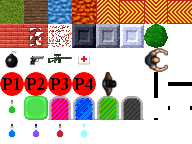
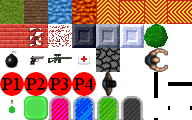
Added Ground/Stone

diff --git a/core/src/wge3/game/engine/utilities/MapLoader.java b/core/src/wge3/game/engine/utilities/MapLoader.java
@@ -8,32 +8,33 @@ import java.io.FileNotFoundException;
 import java.io.IOException;
 import java.util.Scanner;
 import wge3.game.engine.constants.Color;
-import wge3.game.entity.creatures.Player;
-import wge3.game.entity.creatures.npcs.Zombie;
+import wge3.game.engine.constants.Direction;
 import wge3.game.entity.Area;
 import wge3.game.entity.Tile;
-import wge3.game.engine.constants.Direction;
+import wge3.game.entity.creatures.Player;
 import wge3.game.entity.creatures.npcs.Gunman;
-import wge3.game.entity.tilelayers.grounds.Grass;
-import wge3.game.entity.tilelayers.grounds.Lava;
-import wge3.game.entity.tilelayers.grounds.OneWayFloor;
-import wge3.game.entity.tilelayers.grounds.Water;
-import wge3.game.entity.tilelayers.grounds.WoodenFloor;
-import wge3.game.entity.tilelayers.mapobjects.items.Bomb;
-import wge3.game.entity.tilelayers.mapobjects.items.GreenPotion;
-import wge3.game.entity.tilelayers.mapobjects.items.guns.Handgun;
-import wge3.game.entity.tilelayers.mapobjects.items.HealthPack;
-import wge3.game.entity.tilelayers.mapobjects.walls.BrickWall;
-import wge3.game.entity.tilelayers.mapobjects.GreenSlime;
-import wge3.game.entity.tilelayers.mapobjects.walls.StoneWall;
-import wge3.game.entity.tilelayers.mapobjects.Tree;
+import wge3.game.entity.creatures.npcs.Zombie;
 import wge3.game.entity.tilelayers.Ground;
 import wge3.game.entity.tilelayers.MapObject;
 import wge3.game.entity.tilelayers.grounds.Abyss;
+import wge3.game.entity.tilelayers.grounds.Grass;
+import wge3.game.entity.tilelayers.grounds.Lava;
+import wge3.game.entity.tilelayers.grounds.OneWayFloor;
+import wge3.game.entity.tilelayers.grounds.Stone;
+import wge3.game.entity.tilelayers.grounds.Water;
+import wge3.game.entity.tilelayers.grounds.WoodenFloor;
 import wge3.game.entity.tilelayers.mapobjects.Door;
-import wge3.game.entity.tilelayers.mapobjects.items.InvisibilityPotion;
+import wge3.game.entity.tilelayers.mapobjects.GreenSlime;
 import wge3.game.entity.tilelayers.mapobjects.Teleport;
+import wge3.game.entity.tilelayers.mapobjects.Tree;
+import wge3.game.entity.tilelayers.mapobjects.items.Bomb;
+import wge3.game.entity.tilelayers.mapobjects.items.GreenPotion;
+import wge3.game.entity.tilelayers.mapobjects.items.HealthPack;
+import wge3.game.entity.tilelayers.mapobjects.items.InvisibilityPotion;
 import wge3.game.entity.tilelayers.mapobjects.items.SpeedPotion;
+import wge3.game.entity.tilelayers.mapobjects.items.guns.Handgun;
+import wge3.game.entity.tilelayers.mapobjects.walls.BrickWall;
+import wge3.game.entity.tilelayers.mapobjects.walls.StoneWall;
 
 public final class MapLoader {
     
@@ -60,6 +61,8 @@ public final class MapLoader {
                     case 6: ground = new OneWayFloor(Direction.RIGHT); break;
                     case 7: ground = new OneWayFloor(Direction.DOWN); break;
                     case 8: ground = new OneWayFloor(Direction.LEFT); break;
+                        
+                    case 21: ground = new Stone(); break;
                                     
                     default:ground = new Abyss(); break;
                 }

diff --git a/core/src/wge3/game/entity/tilelayers/grounds/Stone.java b/core/src/wge3/game/entity/tilelayers/grounds/Stone.java
@@ -1,0 +1,13 @@
+package wge3.game.entity.tilelayers.grounds;
+
+import com.badlogic.gdx.graphics.g2d.Sprite;
+import wge3.game.entity.tilelayers.Ground;
+import wge3.game.entity.Tile;
+
+public final class Stone extends Ground {
+
+    public Stone() {
+        sprite = new Sprite(texture, 4*Tile.size, 2*Tile.size,Tile.size, Tile.size);
+    }
+
+}
